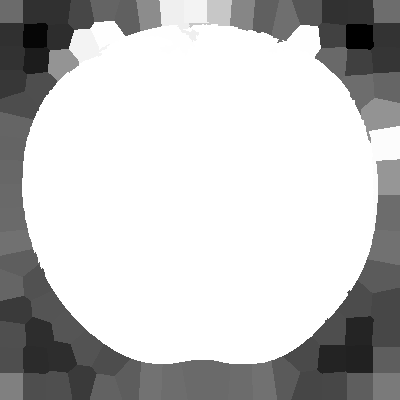
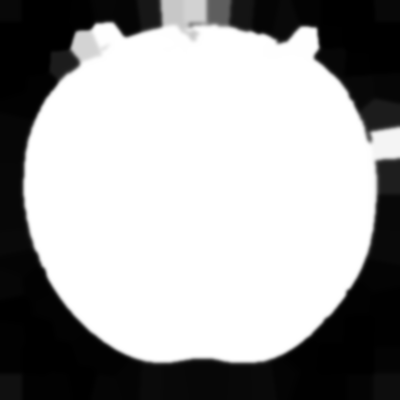
Enhance saliency map processing with Gaussian blur and power transformation; update output images

diff --git a/backend/saliency_core/main.py b/backend/saliency_core/main.py
@@ -32,6 +32,8 @@ f_norm = (f - f.min()) / (f.max() - f.min())
 saliency = 1 - f_norm
 
 saliency_map = saliency[segments]
+saliency_map = cv2.GaussianBlur(saliency_map, (11, 11), 0)
+saliency_map = saliency_map ** 4
 
 gray = cv2.cvtColor(image, cv2.COLOR_RGB2GRAY)
 gray = cv2.cvtColor(gray, cv2.COLOR_GRAY2RGB)
